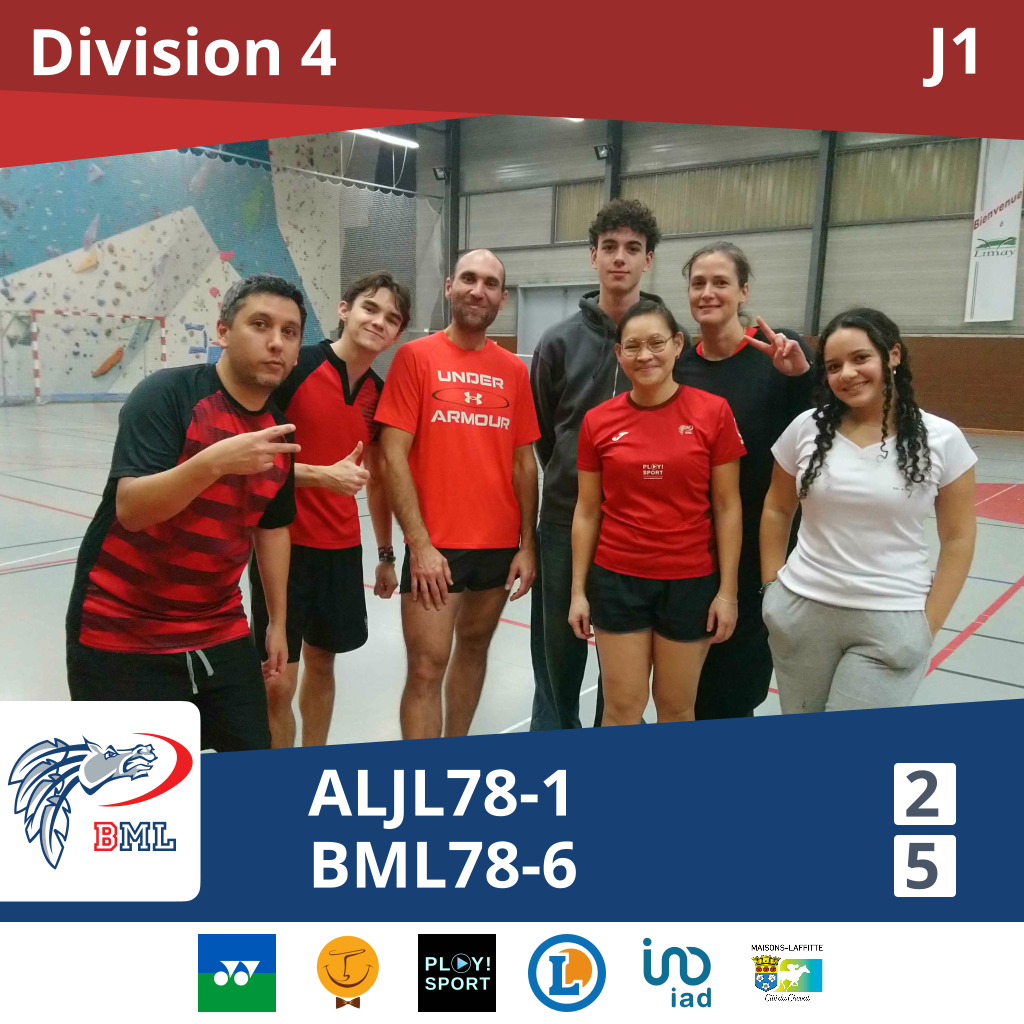
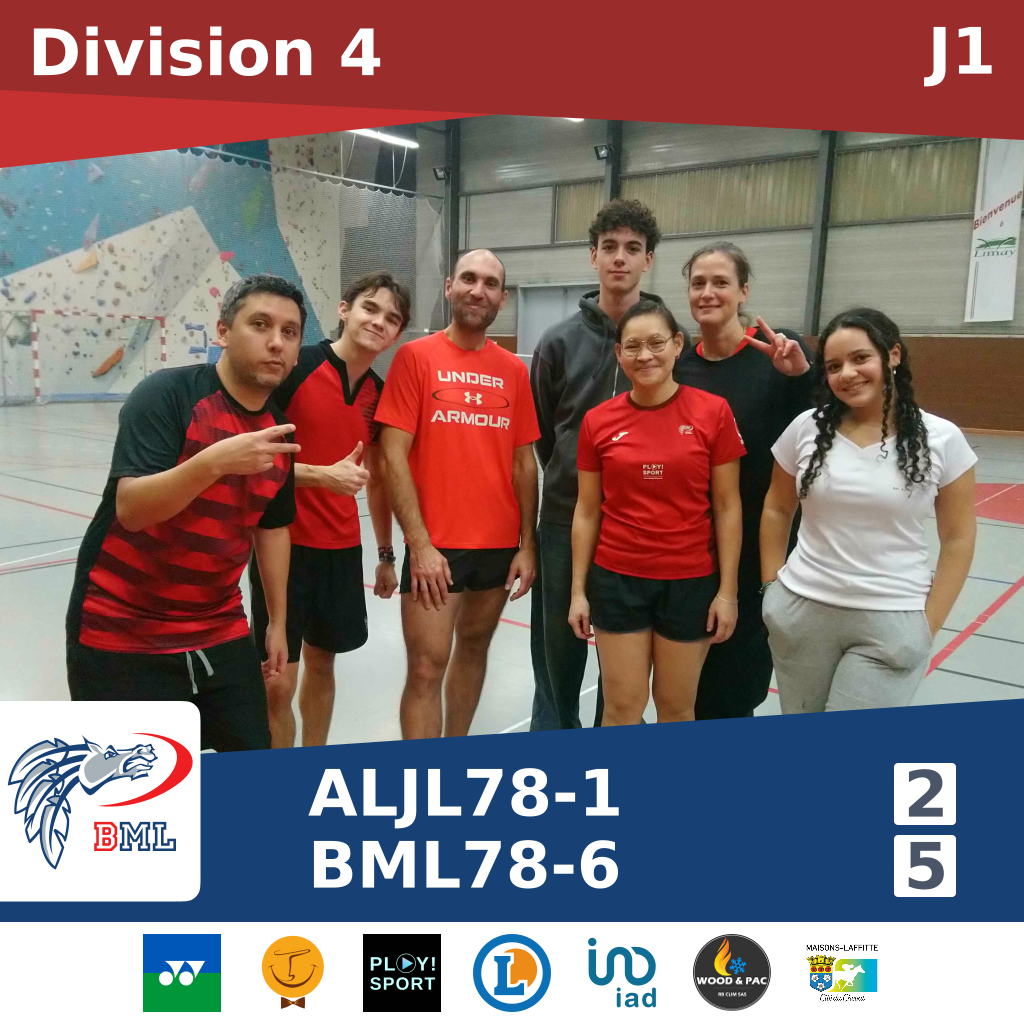
fix: update pictures with new partner

diff --git a/src/pages/results/2024-09-21-12-30-interclub-equipe-1.md b/src/pages/results/2024-09-21-12-30-interclub-equipe-1.md
@@ -8,9 +8,9 @@ heading: |-
 date: 2024-09-21T10:30:00.000Z
 category: equipe-1-s24-25
 featuredimage:
-  image: /assets/2024-2025/2024-09-21-E1.png
+  image: /assets/2024-2025/2024-09-21-12-30-E1.png
 ---
-![](/assets/2024-2025/2024-09-21-E1.png "BML1 - J1")
+![](/assets/2024-2025/2024-09-21-12-30-E1.png "BML1 - J1")
 
 <teamscoreboard>{"teamScore":{"teamA":{"shortName":"BCCO60 2","longName":"B.C. CHAMBLY OISE","result":5},"teamB":{"shortName":"BML78 1","longName":"Badminton Maisons-laffitte","result":3}}}</teamscoreboard>
 
